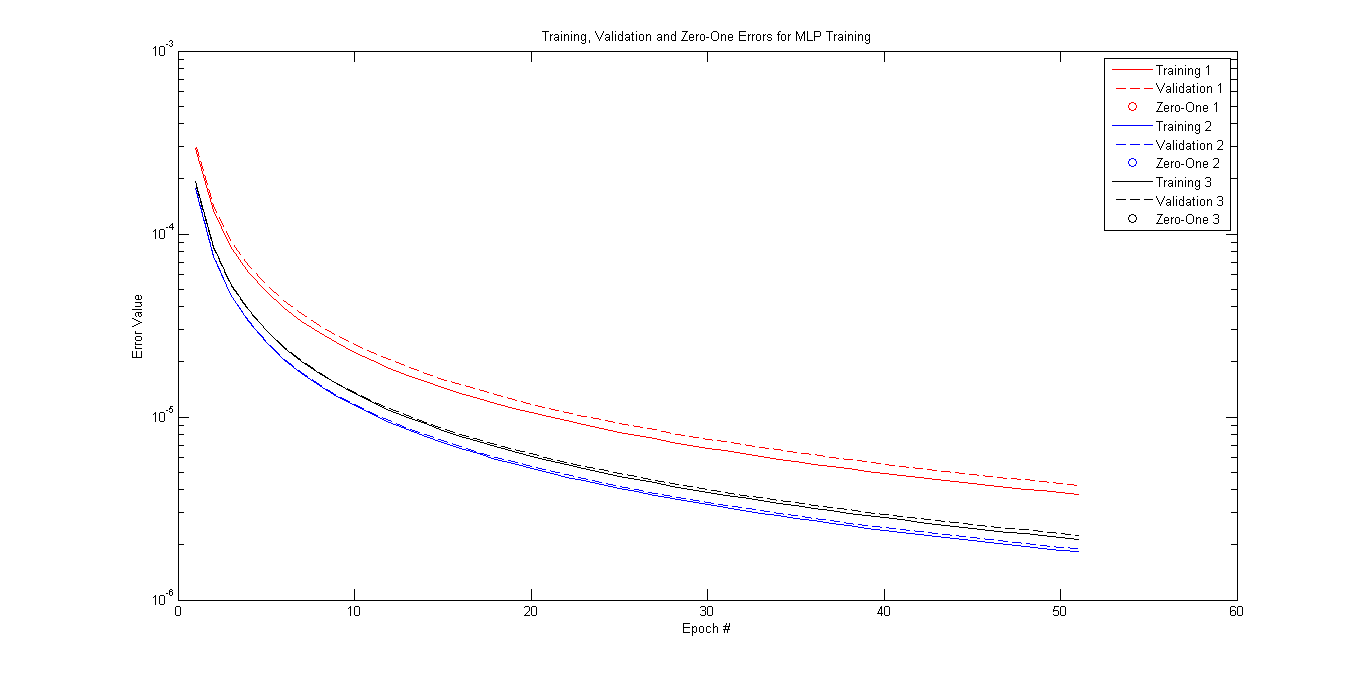
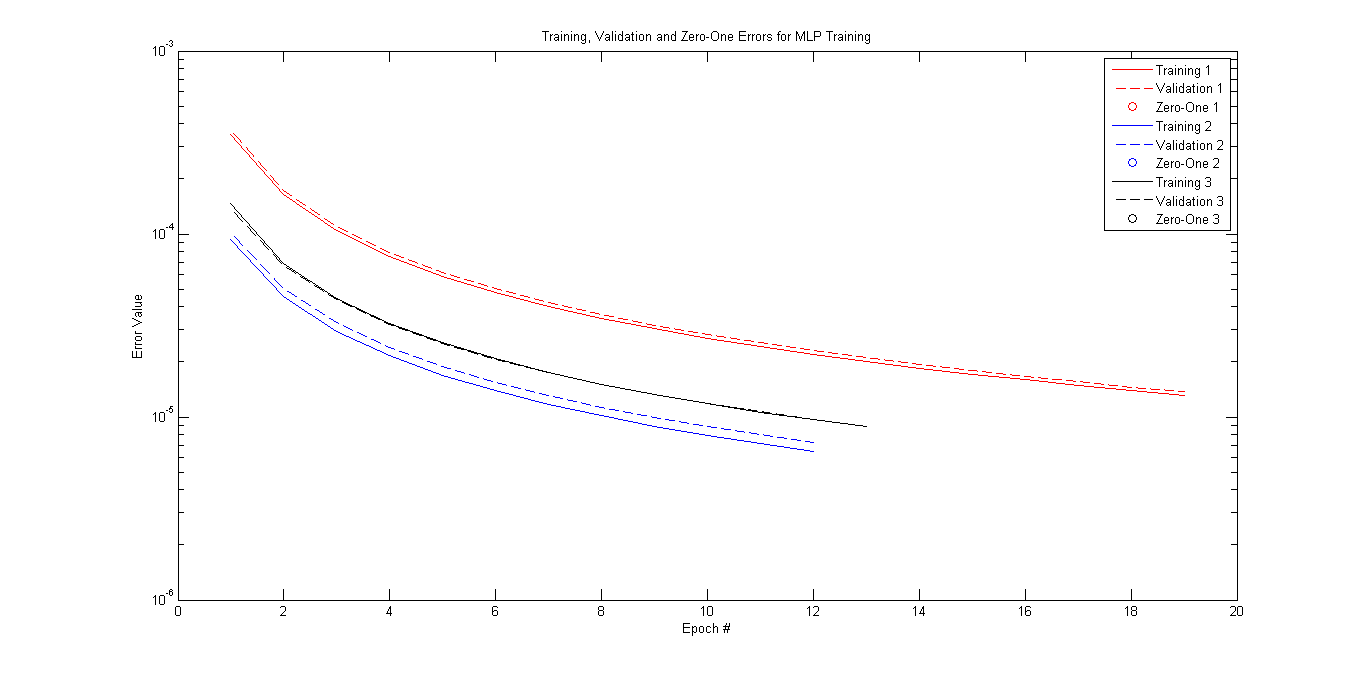
mlp_binary results with new early stopping
+ figures and plots added to directory

diff --git a/src/mlp_batch.m b/src/mlp_batch.m
@@ -61,9 +61,9 @@ tr_err = zeros(1,max_ec);
 val_err = zeros(1,max_ec);
 zero_one_error = zeros(1,max_ec);
 
-while(sum(early_stop > 1e-6*ones(1,2)) > 0) 
+while(sum(early_stop > 1e-7*ones(1,2)) > 0) 
     es = mod(es + 1,2);
-    ec = ec+1;
+    ec = ec+1
     % process one batch of the inputs
     for i=1:batch_size:n
         % upper index to slice input matrices
@@ -154,12 +154,12 @@ tr_err(ec) = logerr(T,a_3);
                                             w_3, b_3);
 % update validation error
 % val_err_prev = val_err;
-val_err(ec) = logerr(T_val,a_3)
+val_err(ec) = logerr(T_val,a_3);
+early_stop(es+1) = abs(val_err(ec) - prev_err);
+prev_err = val_err(ec);
 
 % calculate 0-1 error for validation set
 zero_one_error(ec) = mean(T_val.*a_3 < 0);
-early_stop(es+1) = abs(zero_one_err(ec) - prev_err);
-prev_err = zero_one_err(ec);
 
 % visualize errors
 plotter(tr_err, val_err, zero_one_error, ec);

diff --git a/src/show_images.m b/src/show_images.m
@@ -1,0 +1,16 @@
+% display images with y*a_3 closest to zero and largest negative
+x_l = X_L_val(:,min_i);
+x_r = X_R_val(:,min_i);
+x = (x_l + x_r)/2;
+x = reshape(x,24,24);
+figure(1);imshow(x,'InitialMagnification',500);
+title('Fig.1: Most Errored Image (t = 1)');
+tmin = T_val(min_i); 
+
+x_l = X_L_val(:,max_i);
+x_r = X_R_val(:,max_i);
+x = (x_l + x_r)/2;
+x = reshape(x,24,24);
+figure(2);imshow(x,'InitialMagnification',500);
+title('Fig.2: Least Errored Image (t = -1)');
+tmax = T_val(max_i);
